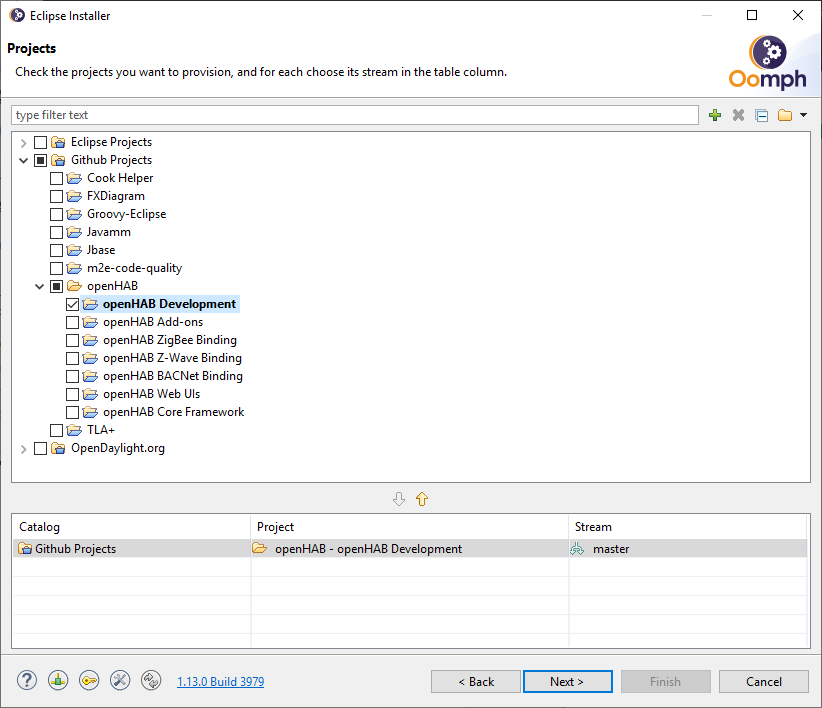
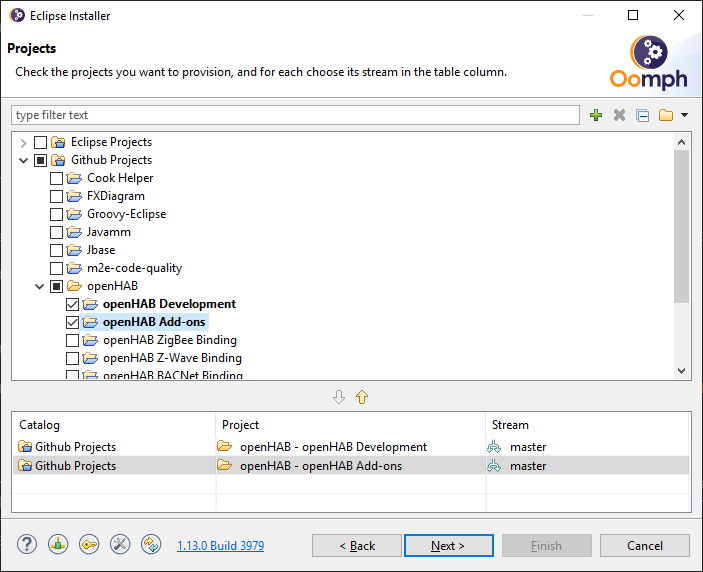
new instructions using Eclipse Installer and openhab-distro
added missing image, suggested Eclipse version

removed infinite loop warning, added hint in case bundles are not listed

Added relative image url path

added startup imgs, removed git checkout of openhab2-addons

Apply suggestions from code review

changes bsaed on review comments

Changed region(s): [[0.0, 0.0, 1.0, 1.0], [0.9559, 0.0, 1.0, 0.0297], [0.9858, 0.9808, 1.0, 1.0]]

diff --git a/developers/ide/eclipse.md b/developers/ide/eclipse.md
@@ -14,56 +14,62 @@ For now follow these steps:
 
 ### Eclipse IDE Setup
 
-This guide focuses on Add-on (binding) development.
+This guide focuses on existing Add-on (binding) development.
 
 1. Download the "Eclipse Installer": [can be downloaded from the Eclipse web site](https://wiki.eclipse.org/Eclipse_Installer)
-1. Launch the Installer and select `Advanced Mode...` on the menu (3 bars) on the right, then select `Eclipse IDE for Java Developers` then `Next>`
-Eclipse suggested version is "Latest Release" (currently 2019-06 does not support bndtools)
-1. Select `Github Projects > openHAB > openHAB Development`. 
-    
-    Do *NOT* select other projects for now.
+1. Launch the Installer and on the menu on the top right (3 bars) select `ADVANCED MODE...`, then select `Eclipse IDE for Java Developers` then `Next >`.
 
+    Eclipse version to use is "Latest Release (2019-03)" (currently version `2019-06` does not support bndtools)
+
+1. Under `Github Projects > openHAB` select `openHAB Development` and any desired option from `openHAB Add-ons` (includes all add-ons from openhab2-addons repo), `openHAB ZigBee Binding` or `openHAB Z-Wave Binding`.
+    
    ![select projects](./images/ide_setup_eclipse_projects.png)
 
-1. Click `Next >`, `Finish` and then accept licences, "Unsigned Content" for Bndtools,  and Eclipse Foundation certificates when requested to complete IDE installation. 
+1. Click `Next>`, verify/modify Root and install folder name, click `Next>` and `Finish` to start installation. 
 
-    When the installation is finished the IDE is launched automatically.
+    During install accept licence agreement, "Unsigned Content" for Bndtools, and Eclipse Foundation certificates when requested to complete IDE installation. 
 
-1. For the first launch leave the Eclipse IDE open until all Startup tasks / Download sources / Builds are completed (click bottom right button in the IDE for Progress). 
+    When the Eclipse installation is finished the IDE is launched automatically.
 
-    **It may take 10-15mins depending on internet connection and your computer speed.
-    So go and grab a good cup of coffee and be patient until is finished**
+1. **It's important**, during the first Eclipse IDE launch, to leave Eclipse open until all openHAB related initial Setup tasks / Download sources / Builds are completed. 
 
-1. Close Eclipse. Move to the `git` folder under the chosen IDE installation directory (the `openhab-distro` folder is already there).
+    Setup tasks will personalize the IDE with openHAB code formatting tools, configurations and a demo app.
+	Setup tasks will also download openHAB lastest `openhab2-addons` and `openhab-distro` rcode epositories and related maven dependencies. 
+	Click bottom right button in the IDE for Progress.
 
-1. Using the `git` command from the command line, checkout the openhab2-addons repository: `git clone --depth=1 https://github.com/openhab/openhab2-addons`
+    ![startup tasks progress](./images/ide_setup_eclipse_startup_tasks.png)
 
-1. Open Eclipse. Add the binding that you want to develop (in this guide we use `astro` as an example) to the Eclipse workspace: `File > Import > Maven > Existing maven projects >` select the root directory of the binding under `git\openahb2-addons` then `Finish`.
+    When visible in the Package Explorer, select `OH2 Add-ons` and from right-click menu select "Close Projects": this significantly speeds up the setup.
+    Re-open only the binding project(s) you would like to work on.
 
-    Leave Eclipse open and wait for the downloads and builds to finish.
+    **It may take 30-45mins for all initial tasks to finish, depending on internet connection and your computer speed.
+    So... go and grab a good cup of coffee and be patient until is finished**
 
-    **WARNING**: if the build continues indefinitely and starts looping, this a bug in bndtools that has already been identified. To stop the loop deselect from `Eclipse > Project > Build Automatically`. 
-    Remember to do `Project > Build Project` after changes in the binding project.
+   ![startup tasks finished](./images/ide_setup_eclipse_tasks_finished.png)
 
-    NOTE: You do not need to add all projects to the workspace, just the binding project you want to work on.
-
-1. In the Eclipse Package Explorer in `Other Projects > launch > app` project folder look for `app.bndrun` file.
+1. After all tasks are finished, look for `app.bndrun` file in the Eclipse Package Explorer in `Other Projects > launch > app` project folder.
 
    Double click to open `app.bndrun` file (takes a few seconds)
 
-1. Under Browse Repos search for the binding you want to modify (`astro`) and add it to the "Run Requirements" list using drag&drop from the "Browse Repos" list:
+1. Under Browse Repos search for the binding you want to run/debug (`astro` in our case) and add it to the "Run Requirements" list using drag&drop from the "Browse Repos" list:
     ![Bndtools](images/ide_setup_eclipse_bndtools.png)   
 
+    NOTE: If the binding you want to run/debug cannot be found in the Browse Repos list, or the list is empty, then follow these steps to rebuild the list of bindings in the BOM (Bill Of Material) and make your new binding visible from the IDE launch configuration:
+
+    - using Git bash console go to `git\openhab2-addons\bom\openhab-addons`
+    - recreate the BOM with: `mvn -DskipChecks -DskipTests clean install`
+    Now go back to Eclipse, close and re-open the `app.bndrun` file and now you should be able to find the binding in the list.
+
 1. Save and click "Resolve": a window with the list of resolved bundles will be shown.
-    Click Finish and save the file.
+    Click `Finish` and save the file.
 
-Now the IDE is ready to start openHAB with a minimum set of the openHAB core bindings, PaperUI and the selected binding.
+Now the IDE is ready to start openHAB with a minimum set of the openHAB core bindings, UIs and the selected binding you want to run/debug.
 
-1. Start openHAB from the IDE clicking "Run OSGi" or "Debug OSGi" (upper right of the `app.bndrun` dialog).
-   You can check openHAB is running going with your browser to: http://localhost:8080/paperui/
-1. Check the chosen binding is active in `PaperUI > Configuration > Bindings`
+1. Start openHAB from the IDE clicking "Run OSGi" or "Debug OSGi" (upper right of the `app.bndrun` window).
+   You can check openHAB is running going with your browser to: http://localhost:8080/paperui/ (the last `/` is important!)
+1. Check the chosen binding is active in `Paper UI > Configuration > Bindings`
 
-## Develop a NEW binding with the IDE
+## Develop a NEW binding with the Eclipse IDE
 
 To start developing a new binding follow these steps:
 
@@ -83,10 +89,10 @@ and add your new binding to the list (adapt the artifactid to your binding name!
         <version>${project.version}</version>
     </dependency>
     ```
-1. From the `openhab2-addons` directory run: ` mvn -DskipChecks -DskipTests clean install` to rebuild the list of bindings in the BOM (Bill Of Material) and make your new binding visible from the IDE launch configuration
+1. From the `git\openhab2-addons\bom\openhab-addons` directory run: `mvn -DskipChecks -DskipTests clean install` to rebuild the list of bindings in the BOM (Bill Of Material) and make your new binding visible from the IDE launch configuration
 1. Open Eclipse and follow from previous step 8. to import and run/debug your new binding in the Eclipse IDE
 
-Now you can start developing your new binding.
+Now you can start developing your NEW binding.
 
 In case the new binding has dependencies to other bundles/libraries see [Adding Dependencies](../buildsystem.html#adding-dependencies) for more information.
 
